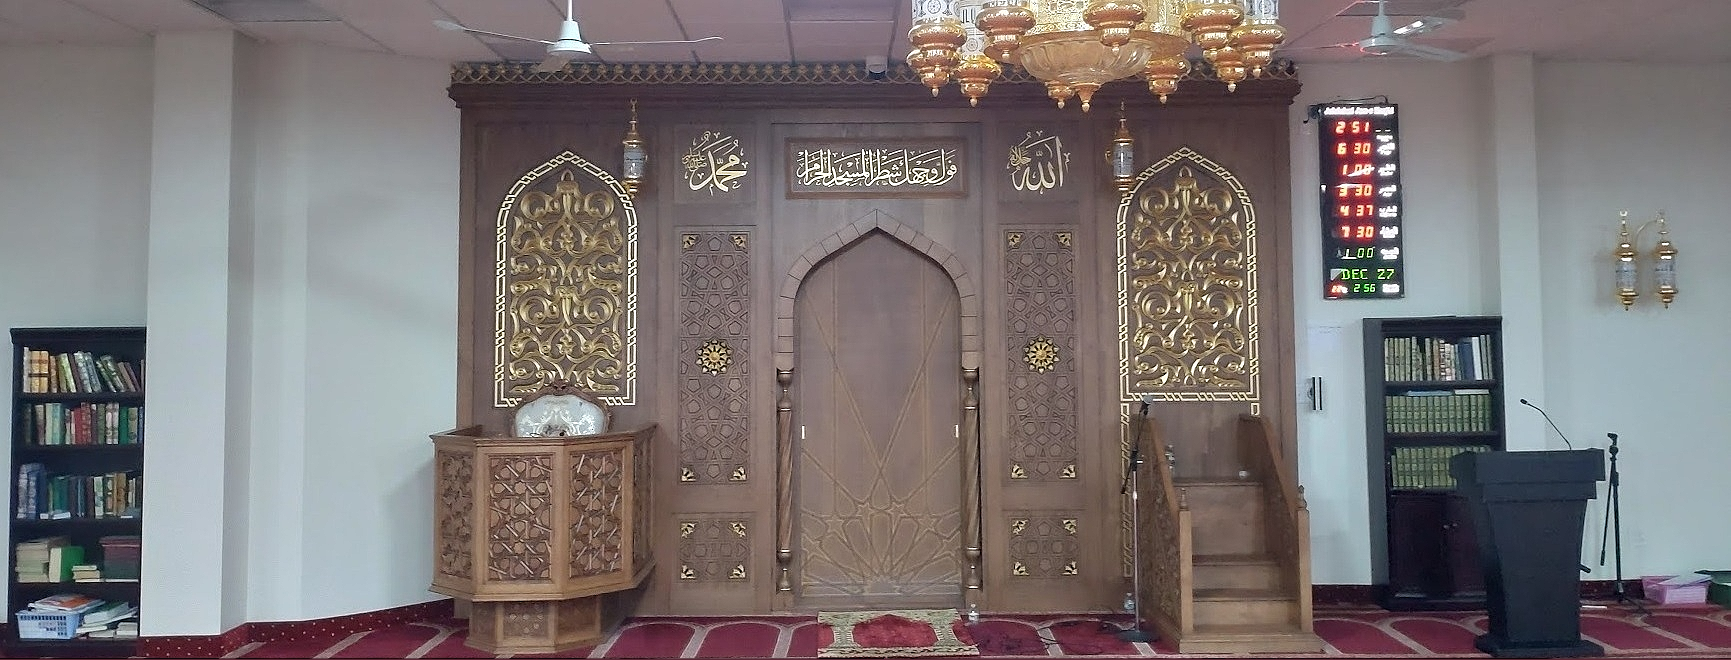
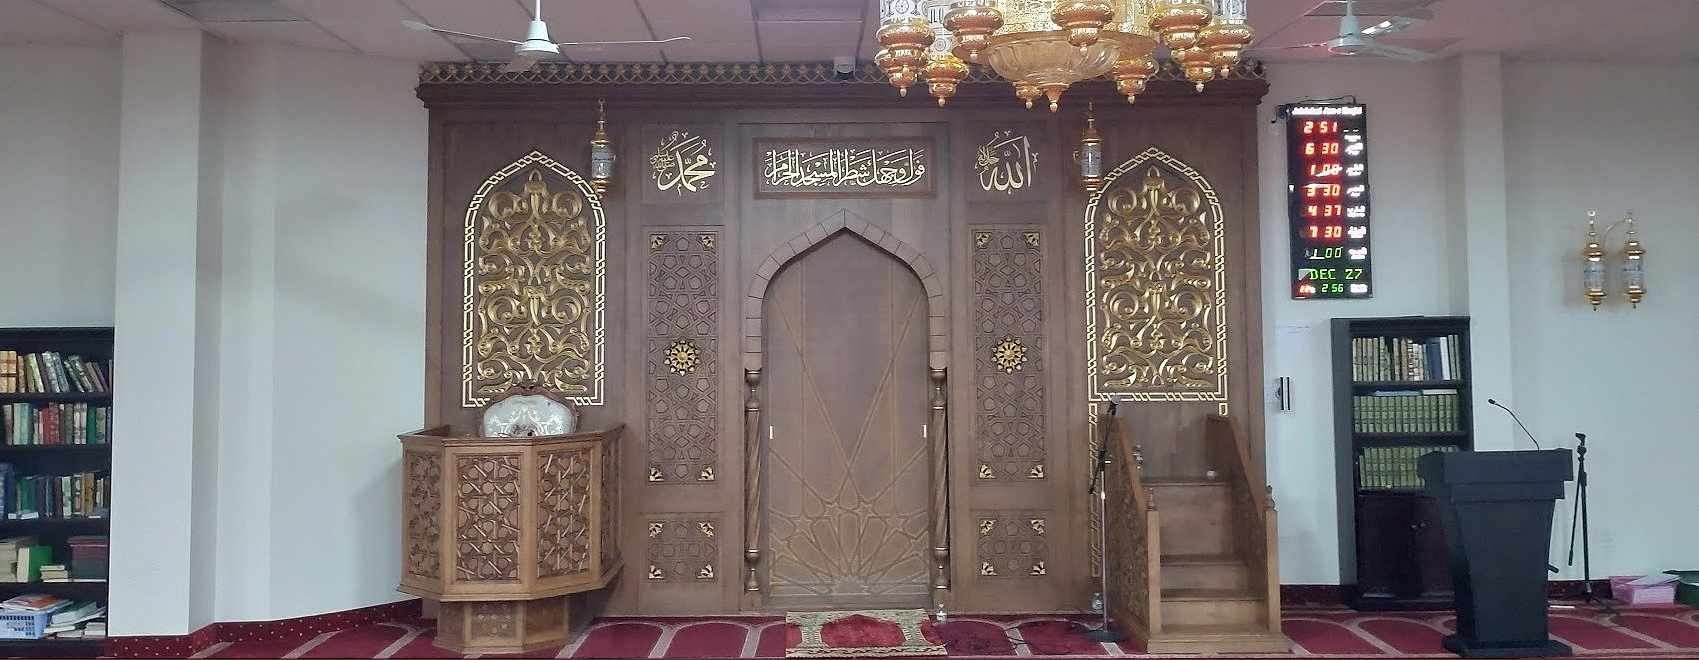
IFNJ Update

diff --git a/index.html b/index.html
@@ -310,8 +310,13 @@
 			<article id="prayer-page" class="page-content">
 
 				<h2 class="page-heading">Prayer Schedule of Paterson Jalalabad Jam-E Masjid</h2>
-				<img src="assets/images/ifnj_indoor_horizontal_2.png" alt="IFNJ Indoor"
-					style="width: 98%; border-radius: 10px; margin-inline: 1%;">
+				
+				<div style="width: 100%; margin: 0 auto;">
+					<img src="assets/images/ifnj_indoor_horizontal_2.png" alt="IFNJ Indoor"
+						style="width:100%; border-radius: 10px;">
+				</div>
+
+
 				<table>
 					<thead>
 						<tr>
@@ -471,11 +476,12 @@
 					of our community.</p>
 
 				<p>
-				<h4>IFNJ Membership Form</h4>
-				<button id="openBtn" class="button bg-blue-button"><i class="fa-solid fa-file-pdf"></i> OPEN</button>
-				<!-- <a id="ifnj-membership-form-download" download class="button fa" href="assets/documents/ifnj-membership.pdf" target="_blank">&#xf0c7; DOWNLOAD</a> -->
-				<br>
-				<small>File size: 53.2 KB, file type: .pdf</small>
+					<h3>IFNJ Membership Form</h3>
+					<button id="openBtn" class="button bg-blue-button"><i class="fa-solid fa-file-pdf"></i> OPEN</button>
+					<div style="margin: 15px;"><a id="ifnj-membership-form-download" download class="button bg-blue-button" href="assets/documents/ifnj-membership.pdf"
+					target="_blank"><i class="fa-solid fa-download"></i> DOWNLOAD</a></div>
+				
+					<small style="margin: 15px;">File size: 53.2 KB, file type: .pdf</small>
 				</p>
 
 
@@ -1040,7 +1046,7 @@
 		<address>Paterson Jalalabad Jam-E Masjid <br> 61 Van Houten St, Paterson, NJ 07505</address>
 		<span class="fa-solid fa-mobile"></span><span> Phone: </span><a href="tel:+19732796408"> +1(973) 279-6408</a><br>
 		<span class="fa-solid fa-at"></span><span> Email: </span><a href="mailto:info@ifnj.org">info@ifnj.org</a><br>
-		<span class="fa-solid fa-globe"></span><span>Website: </span><a href="http://www.ifnj.org/"
+		<span class="fa-solid fa-globe"></span><span> Website: </span><a href="http://www.ifnj.org/"
 			title="Islamic Foundation of New Jersey - Official Homepage">www.ifnj.org</a>
 
 		<h6 style="padding-top: 25px;">&copy; Islamic Foundation of New Jersey</h6>

diff --git a/assets/styles/style.css b/assets/styles/style.css
@@ -438,6 +438,10 @@ address {
     aspect-ratio: 1/1;
 }
 
+#menu, #audio-container, #sticky-donate-button {
+    bottom: 66px;
+}
+
 #navbar, #menu {
     background-color: rgba(69, 97, 112, 0.733);
     box-shadow: 0px 0px 2px rgba(0, 33, 48, 0.788), 0px 0px 5px rgba(49, 69, 80, 0.623), 0px 0px 15px rgba(49, 69, 80, 0.171);
@@ -466,8 +470,6 @@ address {
 #menu {
     display: none;
    
-    bottom: 72px;
-
     opacity: 0;
     visibility: hidden;
 
@@ -507,12 +509,13 @@ address {
 
 
 .menu-button {
-    font-size: 20px;
+    font-size: 16px;
     width: 100%;
     /* padding: 15px 130px; */
     transition: 0.1s;
     border-radius: 50px;
     border: 1px solid rgba(255, 245, 227, 0);
+    padding: 10px;
 }
 
 .menu-button:hover,
@@ -697,7 +700,6 @@ td {
 
 #sticky-donate-button {
     position: fixed;
-    bottom: 74px;
     right: 0px;
     width: 150px;
     background-color: rgba(255, 208, 0, 0);
@@ -739,6 +741,10 @@ td {
     border: none;
     overflow: visible;
     background-color: #007889;
+}
+
+#openBtn {
+    display: none;
 }
 
 
@@ -854,7 +860,6 @@ li ul {
     font-weight: 700;
     position: fixed;
 
-    bottom: 72px;
     left: 50%;
     transform: translateX(-50%);
     z-index: 4;
@@ -863,6 +868,8 @@ li ul {
 
     box-sizing: border-box;
 }
+
+
 
 #audio {
     width: 100%;
@@ -1264,6 +1271,10 @@ li ul {
         padding: 10px;
         vertical-align: middle;
         font-size: 20px;
+    }
+
+    #openBtn {
+        display:inline;
     }
 
     #mc_embed_signup {

diff --git a/assets/scripts/script.js b/assets/scripts/script.js
@@ -190,7 +190,7 @@ function playAudio(file_path) {
 
     container.style.display = "block";
     audio.style.display = "block";
-    sticky_donate_button.style.bottom = "196px";
+    sticky_donate_button.style.bottom = "188px";
     
     if ( file_name.length > label.clientWidth) {
         label.classList.add('marqueeLabel');
@@ -216,46 +216,8 @@ function closePlayer() {
 
     audio.style.display = "none";
     container.style.display = "none";
-    sticky_donate_button.style.bottom = "74px";
+    sticky_donate_button.style.bottom = "66px";
 }
-
-
-// var audio = document.getElementById('audio');
-// var seekBar = document.getElementById('seek-bar');
-
-// audio.addEventListener('timeupdate', function () {
-//     var value = (audio.currentTime / audio.duration) * 100;
-//     seekBar.value = value;
-// });
-
-// function play() {
-//     audio.play();
-// }
-
-// function pauseAudio() {
-//     var audio = document.getElementById('audio');
-//     audio.pause();
-// }
-
-// function stopAudio() {
-//     audio.pause();
-//     audio.currentTime = 0;
-//     seekBar.value = 0;
-// }
-
-// function volumeUp() {
-//     if (audio.volume < 1) audio.volume += 0.1;
-// }
-
-// function volumeDown() {
-//     if (audio.volume > 0) audio.volume -= 0.1;
-// }
-
-// function seekAudio() {
-//     var seekTo = audio.duration * (seekBar.value / 100);
-//     audio.currentTime = seekTo;
-// }
-
 
 
   
